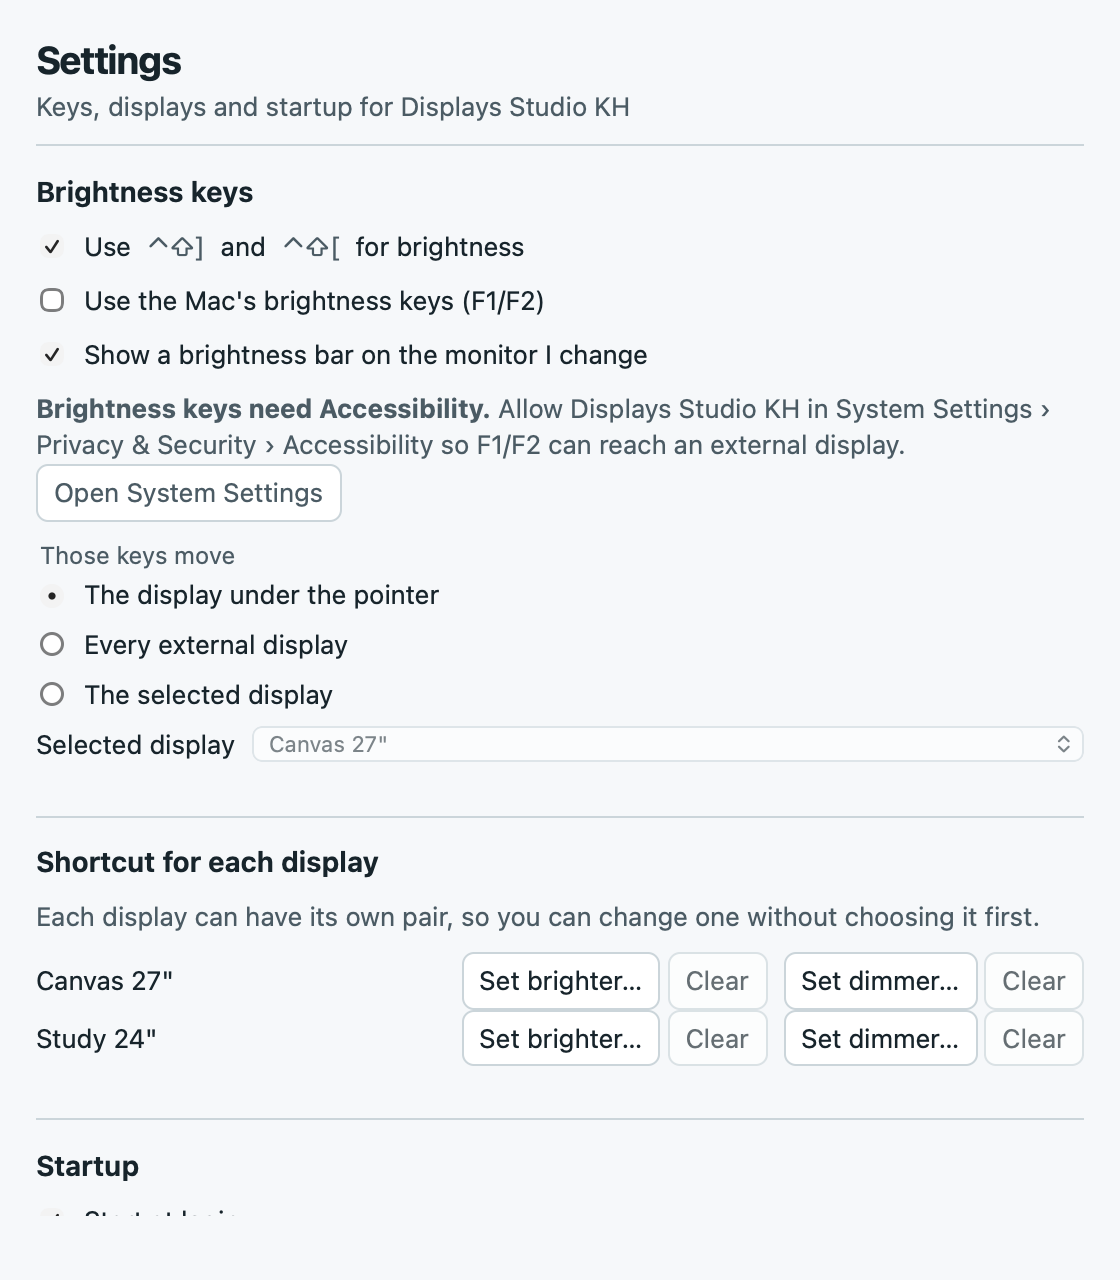
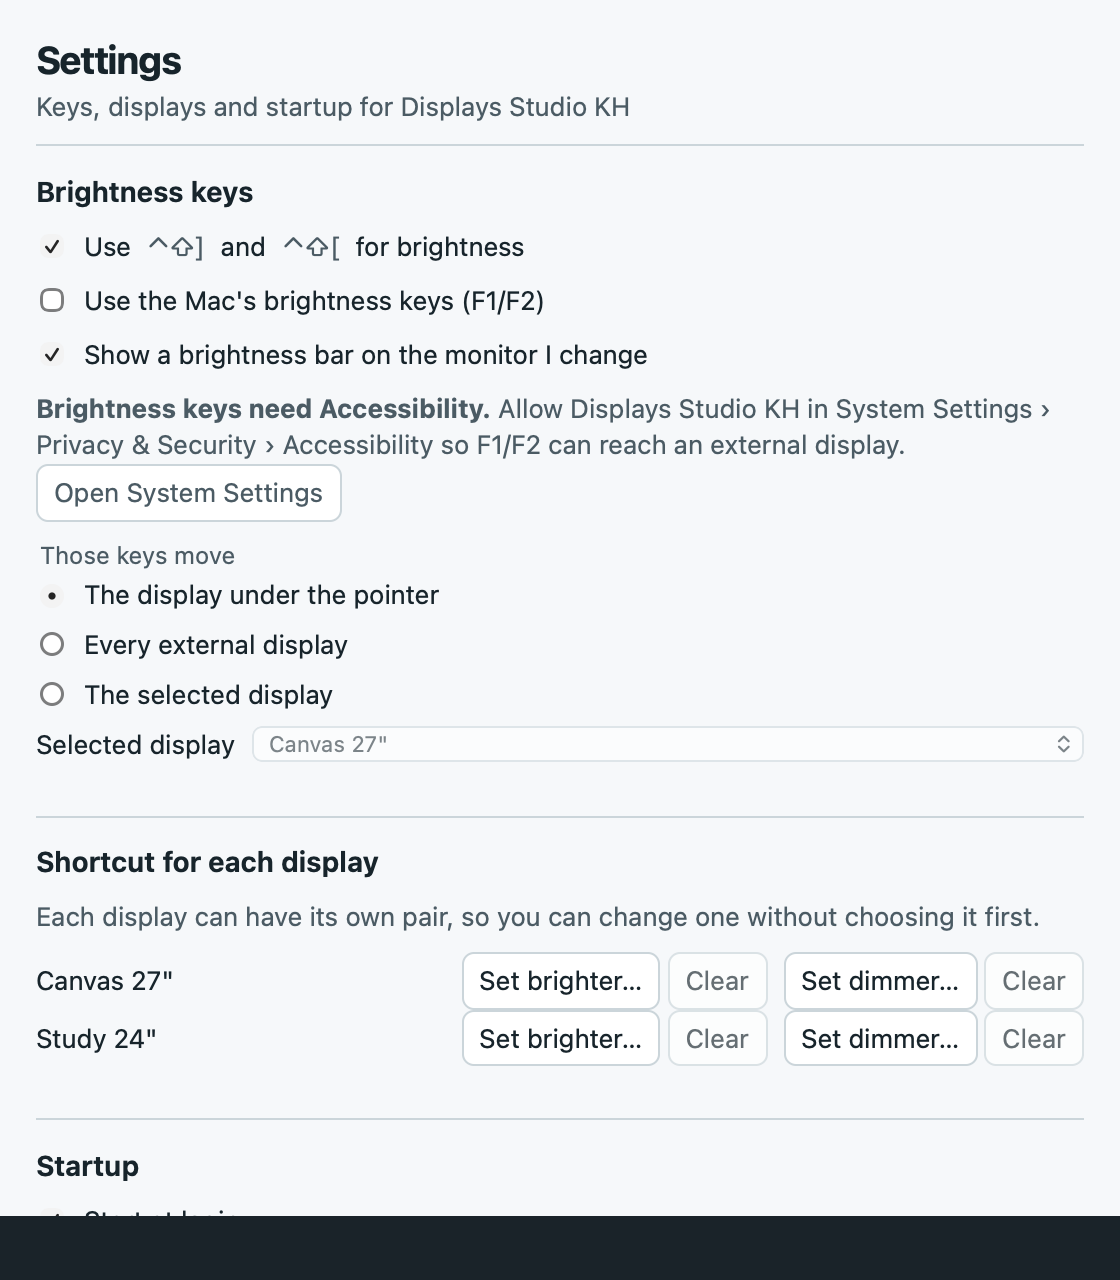
Update-under-load proof, enable 6 HUD anchor unit tests, bump to 0.1.18
- Prove the full held -> paused -> updating -> resumed cycle under live load
  in tests/hold.sh: unsettled work named at the 1 s deadline, queued work
  ("Saving a preset") refused by hold.claim while paused, quit-while-paused
  relaunch resuming immediately without DELETE, and 1 s idle expiry.
- Log refused queued work and the ready-for-updating transition in hold.rs,
  and include the contract's waiting key in hold/resume replies.
- Add missing #[test] attributes to the six HUD anchor/clamp/fallback/screen
  unit tests in src-tauri/src/hud.rs and fix the second-screen test coordinates
  so all 53 unit tests execute and pass.

Changed region(s): [[0.0, 0.9375, 1.0, 1.0]]

diff --git a/src-tauri/src/hud.rs b/src-tauri/src/hud.rs
@@ -504,29 +504,37 @@ mod tests {
         assert!(y + h <= 1056.0);
     }
 
+    #[test]
     fn an_icon_near_the_left_edge_pushes_the_hud_in_from_the_edge() {
         let (x, _, _, _) = anchor(Some((2.0, 1056.0, 20.0, 24.0)), (0.0, 0.0, 1920.0, 1080.0));
         assert_eq!(x, SCREEN_MARGIN);
     }
 
+    #[test]
     fn an_icon_near_the_right_edge_pushes_the_hud_in_from_the_edge() {
         let (x, _, _, _) = anchor(Some((1900.0, 1056.0, 20.0, 24.0)), (0.0, 0.0, 1920.0, 1080.0));
         assert_eq!(x, 1920.0 - HUD_W - SCREEN_MARGIN);
     }
 
+    #[test]
     fn a_narrow_screen_keeps_the_hud_on_screen() {
         // Narrower than the HUD plus both margins: it sits at the left margin rather than off-screen.
         let (x, _, _, _) = anchor(Some((50.0, 1056.0, 20.0, 24.0)), (0.0, 0.0, 150.0, 1080.0));
         assert_eq!(x, SCREEN_MARGIN);
     }
 
+    #[test]
     fn a_second_screen_anchors_in_its_own_coordinates() {
-        // Screen to the right of the main one, icon near its top-left.
-        let (x, y, _, _) = anchor(Some((1930.0, 1056.0, 20.0, 24.0)), (1920.0, 0.0, 2560.0, 1440.0));
-        assert_eq!(x, 1940.0 - HUD_W / 2.0);
-        assert_eq!(y, 1056.0 - ICON_GAP - HUD_H);
+        // Screen to the right of the main one: centred icon stays centred, edge icon clamps to the second screen's own left margin.
+        let second = (1920.0, 0.0, 2560.0, 1440.0);
+        let (x, y, _, _) = anchor(Some((2400.0, 1416.0, 20.0, 24.0)), second);
+        assert_eq!(x, 2410.0 - HUD_W / 2.0);
+        assert_eq!(y, 1416.0 - ICON_GAP - HUD_H);
+        let (clamped_x, _, _, _) = anchor(Some((1930.0, 1416.0, 20.0, 24.0)), second);
+        assert_eq!(clamped_x, 1920.0 + SCREEN_MARGIN);
     }
 
+    #[test]
     fn a_hidden_status_item_falls_back_to_the_top_right_never_the_bottom() {
         let screen = (0.0, 0.0, 1920.0, 1080.0);
         let (x, y, w, h) = anchor(None, screen);
@@ -537,6 +545,7 @@ mod tests {
         assert!(y > 1080.0 / 2.0);
     }
 
+    #[test]
     fn the_icon_moves_the_hud_to_the_icon_s_own_screen() {
         let screens = [(0.0, 0.0, 1920.0, 1080.0), (1920.0, 0.0, 2560.0, 1440.0)];
         let icon_on_second = (2500.0, 1416.0, 20.0, 24.0);

diff --git a/src-tauri/src/hold.rs b/src-tauri/src/hold.rs
@@ -68,6 +68,7 @@ impl Hold {
         let mut state = self.0.lock().unwrap();
         if state.paused() {
             let seconds = state.seconds_left();
+            eprintln!("update hold: refused \"{label}\" while paused ({seconds} s left)");
             return Err(format!(
                 "Displays Studio KH is holding new work while an update installs. Nothing was changed; it takes work again by itself in about {seconds} s."
             ));
@@ -214,9 +215,15 @@ fn hold_request(app: &AppHandle, query: &str) -> String {
     eprintln!(
         "update hold: {} in {ms} ms (ceiling {timeout_s} s, pause {pause_s} s, {in_flight} in flight){}",
         if safe { "safe" } else { "not safe" },
-        if unsettled.is_empty() { String::new() } else { format!(" — still in flight: {}", unsettled.join(", ")) }
+        if unsettled.is_empty() {
+            " — ready for updating".to_string()
+        } else {
+            format!(" — still in flight: {}", unsettled.join(", "))
+        }
     );
-    if !safe {
+    if safe {
+        announce(app, format!("Paused {pause_s} s for an update — updating now."));
+    } else {
         announce(app, format!("Paused for an update; {} still finishing.", unsettled.join(", ")));
     }
     serde_json::json!({
@@ -224,6 +231,7 @@ fn hold_request(app: &AppHandle, query: &str) -> String {
         "unsettled": unsettled,
         "dispatch_paused_s": pause_s,
         "in_flight": in_flight,
+        "waiting": 0,
     })
     .to_string()
 }
@@ -239,6 +247,7 @@ fn resume_request(app: &AppHandle) -> String {
         "unsettled": Vec::<String>::new(),
         "dispatch_paused_s": 0,
         "in_flight": hold.in_flight(),
+        "waiting": 0,
     })
     .to_string()
 }

diff --git a/CHANGELOG.md b/CHANGELOG.md
@@ -1,5 +1,10 @@
 # What's New
 
+## 0.1.18 — 2026-11-25
+
+- When an automatic update holds Displays Studio KH while a display action is running, the hold now reports every phase clearly (`held → paused → updating → resumed`), names anything still in flight at the deadline, and refuses queued display actions cleanly until the update finishes or the pause expires.
+- Enabled the full unit test suite covering menu-bar brightness bar clamping at left/right edges, narrow screens, multi-display anchoring, and top-right overflow fallback.
+
 ## 0.1.17 — 2026-11-25
 
 - The brightness bar now appears just under this app's menu-bar icon, at the top of the screen, so it shows up where you would look for it. It stays centred on the icon and slides in from the edge when the icon sits near one.
